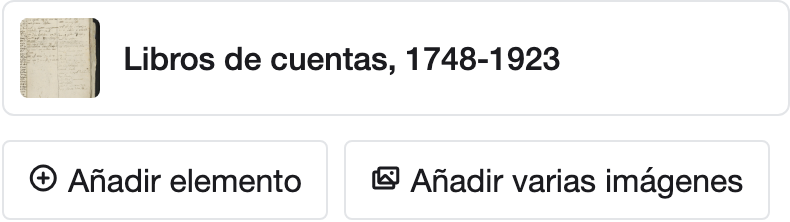
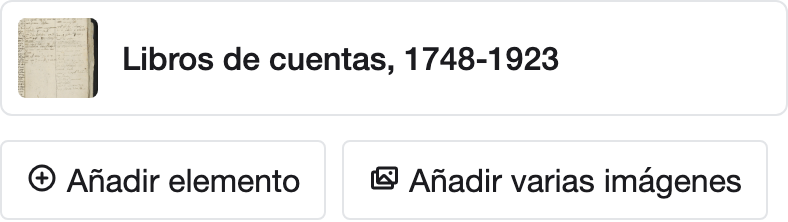
docs(portal): los elementos de un bloque también se guardan solos

diff --git a/docs/user-guide/diffusion-portal/save-changes.md b/docs/user-guide/diffusion-portal/save-changes.md
@@ -1,12 +1,11 @@
 # Guardar los cambios y entender sus avisos
 
-El editor guarda cada cambio de las opciones de un bloque solo: no hay botón de guardar. Los elementos de una lista,
-como las imágenes de un carrusel, se guardan con **Guardar elemento**. Junto al estado de la página, un aviso te dice
-si se ha guardado.
+El editor guarda solo cada cambio, también en los elementos de una lista, como las imágenes de un carrusel: no hay
+botón de guardar. Junto al estado de la página, un aviso te dice si se ha guardado.
 
 ## Guardar un cambio
 
-Un cambio en las opciones de un bloque se guarda al salir del campo, con la tecla Tab o pulsando fuera de él. A la
+Un cambio se guarda al salir del campo, con la tecla Tab o pulsando fuera de él. A la
 izquierda del estado de la página aparece «Guardando…» y, enseguida, «Guardado».
 
 ![El aviso «Guardado» junto al estado de la página.](../../assets/screenshots/es/diffusion-portal/save-changes/saved.png){ width="241" }
@@ -17,9 +16,9 @@ Otros cambios, como añadir un bloque, se guardan igual aunque no muestren el av
 
 ## Guardar un elemento
 
-En los bloques con una lista de elementos, cada elemento se edita en la pestaña **Elementos**. Pulsa **Añadir
-elemento**, o pulsa un elemento de la lista para cambiarlo. Lo que escribes en él se guarda con **Guardar elemento**:
-aparecen «Guardando…» y «Guardado», y el elemento vuelve a la lista.
+En los bloques con una lista de elementos, cada elemento se edita en la pestaña **Elementos**. **Añadir elemento**
+crea uno y lo abre; pulsa un elemento de la lista para cambiarlo. Cada dato se guarda al salir del campo, y quitar o
+mover un elemento, al pulsarlo. **← Volver** te lleva a la lista sin perder nada.
 
 ## Cuando falta un dato
 

diff --git a/docs/user-guide/diffusion-portal/carousel.md b/docs/user-guide/diffusion-portal/carousel.md
@@ -17,11 +17,10 @@ Las imágenes se eligen, o se suben desde tu equipo, en el diálogo de cada elem
 5. Repite los pasos 3 y 4 con cada elemento del ejemplo. Para quitar uno que no necesitas, pulsa **Eliminar** en su
    fila.
 
-Cada elemento se guarda con **Guardar elemento** ([Guardar un elemento](save-changes.md#guardar-un-elemento)). Su
-**Título** se muestra como pie de la imagen: cambia el del ejemplo por el tuyo o déjalo vacío, y la imagen saldrá sin
-pie. Su **Enlace** es la dirección a la que lleva la imagen al pulsarla. La imagen es obligatoria: sin ella, el
-elemento se guarda, pero queda marcado como dato que falta
-([Cuando falta un dato](save-changes.md#cuando-falta-un-dato)).
+Cada elemento se guarda solo ([Guardar un elemento](save-changes.md#guardar-un-elemento)). Su **Título** se muestra como
+pie de la imagen: cambia el del ejemplo por el tuyo o déjalo vacío, y la imagen saldrá sin pie. Su **Enlace** es la
+dirección a la que lleva la imagen al pulsarla. La imagen es obligatoria: sin ella, el elemento se guarda, pero queda
+marcado como dato que falta ([Cuando falta un dato](save-changes.md#cuando-falta-un-dato)).
 
 ![El elemento guardado, con su título y su miniatura.](../../assets/screenshots/es/diffusion-portal/carousel/items-list.png){ width="395" }
 

diff --git a/docs/user-guide/diffusion-portal/publish.md b/docs/user-guide/diffusion-portal/publish.md
@@ -36,9 +36,9 @@ buscar como lo haría un visitante, publica la página y abre su dirección púb
 
 4. El estado de la página pasa a **Publicada** y el botón **Publicar** desaparece hasta que hagas otro cambio.
 
-Lo que no se ha guardado no se publica: un campo rechazado, como un número con letras, o un elemento que no has
-guardado con **Guardar elemento**. Tras el aviso de éxito sale otro que lo dice, por ejemplo «Lo que queda sin guardar
-en «Pieza destacada» no se ha publicado. Guárdalo y vuelve a publicar.».
+Lo que no se ha guardado no se publica: un valor que no es válido, como un número con letras. Tras el aviso de éxito
+sale otro que lo dice, por ejemplo «Lo que queda sin guardar en «Pieza destacada» no se ha publicado: corrige los
+valores que no son válidos y vuelve a publicar.».
 
 ## Si falta contenido en la página
 

diff --git a/docs/user-guide/diffusion-portal/choose-images.md b/docs/user-guide/diffusion-portal/choose-images.md
@@ -29,8 +29,8 @@ retocada, va mejor en **Imágenes y vídeos del portal**, para no mezclarlo con 
 
 Si pulsas el nombre de una imagen, se abre en grande. Desde ahí, **Vincular este** la elige directamente.
 
-En las opciones de un bloque, el cambio se guarda solo, como cualquier otro. En el formulario de un elemento, se guarda
-al pulsar **Guardar elemento** ([Guardar un elemento](save-changes.md#guardar-un-elemento)).
+El cambio se guarda solo, como cualquier otro, también en el formulario de un elemento
+([Guardar un elemento](save-changes.md#guardar-un-elemento)).
 
 Con el campo vacío, el diálogo se abre en la última pestaña que usaste mientras dura tu sesión. Con una imagen ya
 elegida, se abre en la pestaña de su origen.

diff --git a/docs/user-guide/diffusion-portal/image-zoom.md b/docs/user-guide/diffusion-portal/image-zoom.md
@@ -59,7 +59,7 @@ pulsarla se eligen en el formulario del elemento, en **Imágenes ampliadas**.
 En el formulario de cada imagen, su **Título** sale como pie de la imagen ampliada, y su **Enlace a la ficha** puede
 ser la referencia de su descripción en el archivo
 ([Elegir un enlace](choose-images.md#elegir-un-enlace)). La colección se
-guarda con **Guardar elemento**.
+guarda sola.
 
 Para añadir una sola imagen, pulsa **Añadir imagen** y, en su **Fichero**, **Elegir imagen…**.
 
